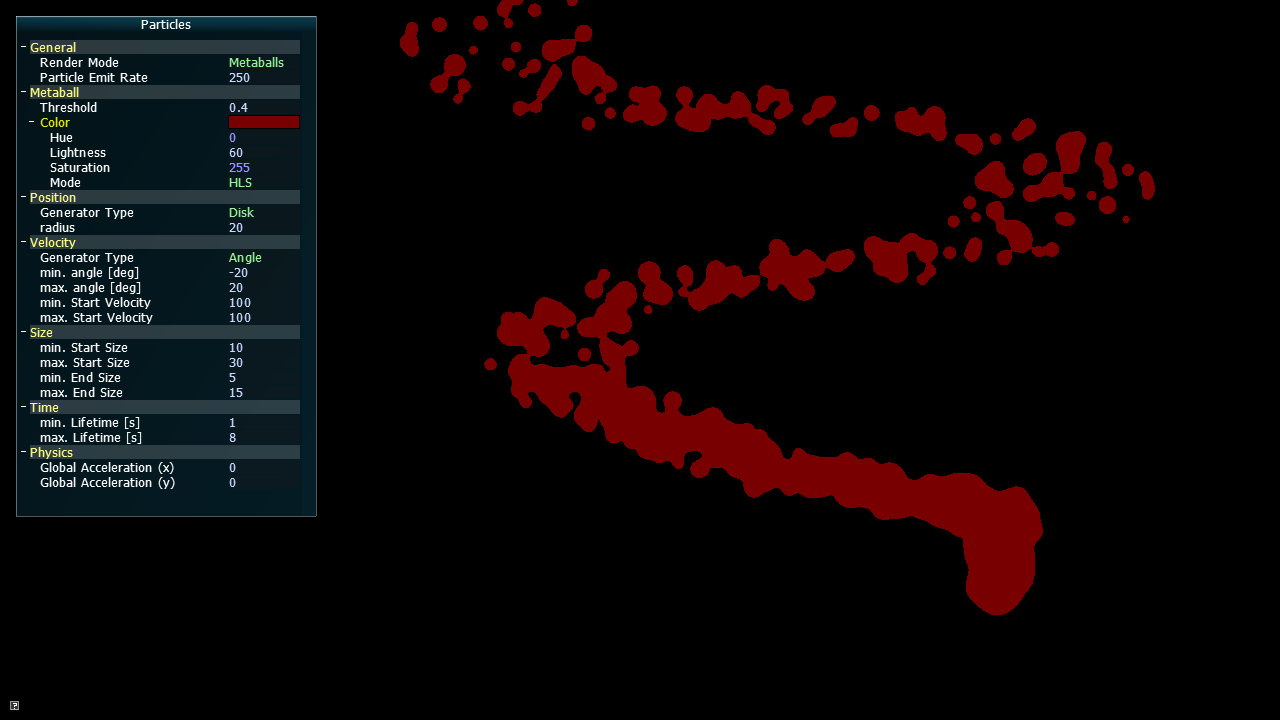
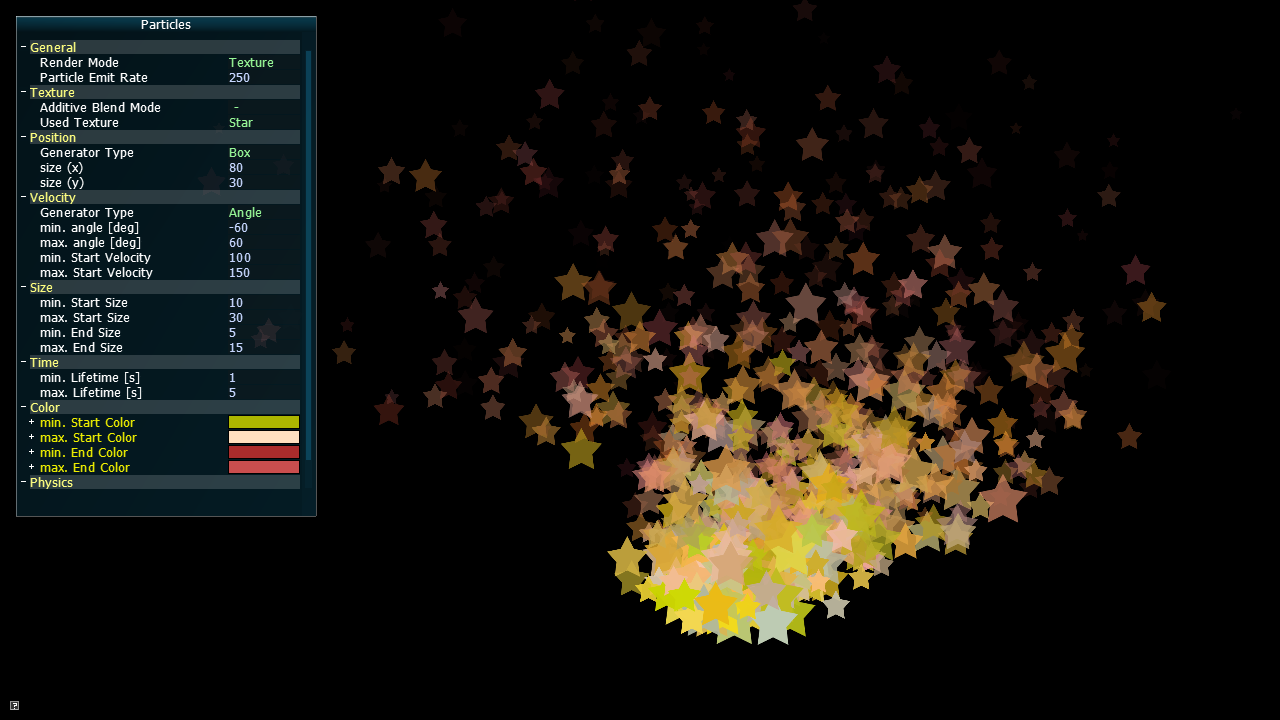
Star Texture

diff --git a/src/main.cpp b/src/main.cpp
@@ -40,16 +40,17 @@ EVelGenMode lastVelGenMode = EVelGenMode::EVelGenModeCount;
 TwEnumVal velGenModeEV[] = { { EVelGenMode::Vector, "Vector" }, { EVelGenMode::Angle, "Angle" } };
 TwType velGenModeType;
 
-enum ESelectedTexture { Round, Blob, NO_TEX };
+enum ESelectedTexture { Round, Blob, Star, NO_TEX };
 ESelectedTexture selectedTex = ESelectedTexture::Round;
 ESelectedTexture lastSelectedTex = ESelectedTexture::Round;
 
-TwEnumVal texEV[] = { { ESelectedTexture::Round, "Circle" }, { ESelectedTexture::Blob, "Blob" } };
+TwEnumVal texEV[] = { { ESelectedTexture::Round, "Circle" }, { ESelectedTexture::Blob, "Blob" }, { ESelectedTexture::Star, "Star" } };
 TwType texType;
 
 // Textures
 std::unique_ptr<sf::Texture> circleTexture;
 std::unique_ptr<sf::Texture> blobTexture;
+std::unique_ptr<sf::Texture> starTexture;
 
 // Render Texture used for metaball rendering
 std::unique_ptr<sf::RenderTexture> renderTexture;
@@ -269,6 +270,9 @@ void updateTex() {
 		else if (selectedTex == ESelectedTexture::Blob) {
 			((particles::TextureParticleSystem *)particleSystem.get())->setTexture(blobTexture.get());
 		}
+		else if (selectedTex == ESelectedTexture::Star) {
+			((particles::TextureParticleSystem *)particleSystem.get())->setTexture(starTexture.get());
+		}
 	}
 }
 
@@ -290,7 +294,7 @@ void updateRenderMode() {
 
 			TwAddVarRW(bar, "BlendMode", TW_TYPE_BOOL8, &((particles::TextureParticleSystem *)particleSystem.get())->additiveBlendMode, " group='Texture' label='Additive Blend Mode' ");
 
-			texType = TwDefineEnum("TexType", texEV, 2);
+			texType = TwDefineEnum("TexType", texEV, 3);
 			TwAddVarRW(bar, "SelectedTex", texType, &selectedTex, " group='Texture' label='Used Texture' ");
 		}
 		else if (renderMode == ERenderMode::MetaballRendering) {
@@ -328,11 +332,16 @@ int main() {
 
 	circleTexture.reset(new sf::Texture());
 	blobTexture.reset(new sf::Texture());
+	starTexture.reset(new sf::Texture());
 	if (!circleTexture->loadFromFile("res/circleTexture.png")) {
 		std::cout << "Invalid path to texture." << std::endl;
 		wrongDir = true;
 	}
 	if (!blobTexture->loadFromFile("res/blobTexture.png")) {
+		std::cout << "Invalid path to texture." << std::endl;
+		wrongDir = true;
+	}
+	if (!starTexture->loadFromFile("res/starTexture.png")) {
 		std::cout << "Invalid path to texture." << std::endl;
 		wrongDir = true;
 	}
@@ -344,6 +353,7 @@ int main() {
 
 	circleTexture->setSmooth(true);
 	blobTexture->setSmooth(true);
+	starTexture->setSmooth(true);
 	
 	sf::Clock clock;
 
